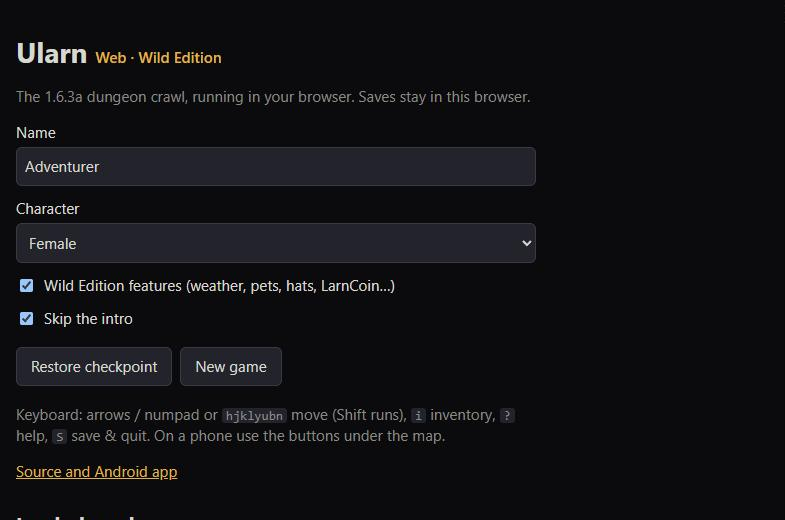
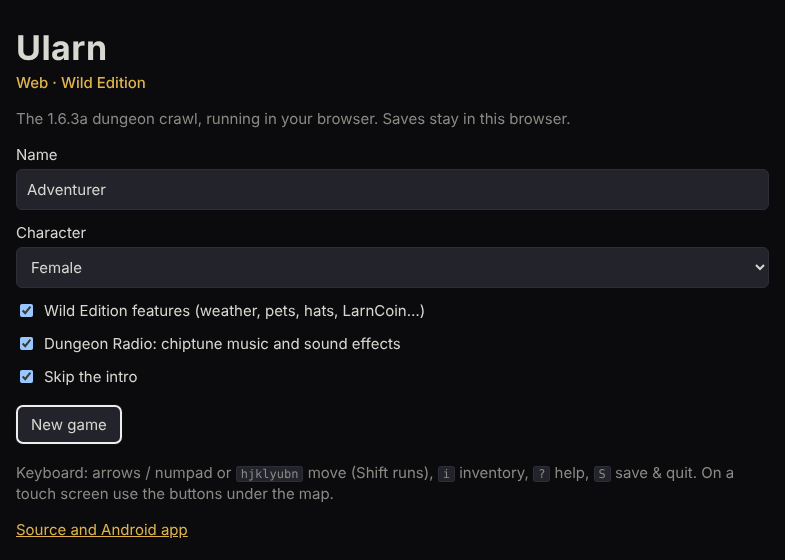
Update projects: refresh Ularn start screenshot, py-ularn tools, card links
- Ularn: recapture the web start screen (new Dungeon Radio option)
- py-ularn: MCP tool count 16 -> 30, add pick_up and rest to the tool list
- GasLog, WhistleIdentify: add APK download links
- ularn-wild: drop the Play in browser link (Pages URL returns 404)

Claude-Session: https://claude.ai/code/session_01TLxKETjgbHjrrgCrp59ati

Changed region(s): [[0.0, 0.2462, 0.9783, 0.9846], [0.0, 0.0615, 0.7338, 0.2462]]

diff --git a/index.html b/index.html
@@ -166,7 +166,7 @@ h2 { font-family: var(--display); font-weight: 600; font-size: clamp(28px, 3.6vw
   <!-- featured:start: highlighted projects, ranked by recent activity and how impressive they are -->
   <section class="feature" id="ularn">
     <div class="shots">
-      <div class="shot"><img src="img/ularn-start.png" width="785" height="520" alt="Ularn Web start screen with name, character, and Wild Edition options"></div>
+      <div class="shot"><img src="img/ularn-start.png" width="785" height="560" alt="Ularn Web start screen with name, character, Wild Edition and Dungeon Radio options"></div>
       <div class="shot-pair">
         <div class="shot"><img src="img/ularn-class.jpg" width="800" height="600" alt="Ularn character class selection screen"></div>
         <div class="shot"><img src="img/ularn-map.png" width="800" height="600" alt="Ularn home level with the original tile graphics"></div>
@@ -195,8 +195,8 @@ h2 { font-family: var(--display); font-weight: 600; font-size: clamp(28px, 3.6vw
       <div class="shot"><img src="img/py-ularn-watch.png" width="932" height="536" alt="py-ularn spectator page: an agent on dungeon level 1 next to a hobgoblin and a throne, with the Agent thoughts log below"></div>
       <div class="term">
         <div class="term-line"><span class="prompt">$</span> claude mcp add pyularn -- python -m pyularn.mcp_server --watch 8765</div>
-        <div class="term-note">MCP tools an agent can call</div>
-        <div class="tool-grid"><span>new_game</span><span>send_keys</span><span>move</span><span>get_screen</span><span>get_state</span><span>key_reference</span><span>end_game</span><span>explore</span><span>travel_to</span><span>take_stairs</span><span>fight</span><span>flee</span><span>buy</span><span>summarize_run</span><span>list_runs</span><span>get_run</span></div>
+        <div class="term-note">Game and skill tools an agent can call</div>
+        <div class="tool-grid"><span>new_game</span><span>send_keys</span><span>move</span><span>get_screen</span><span>get_state</span><span>key_reference</span><span>end_game</span><span>explore</span><span>travel_to</span><span>pick_up</span><span>take_stairs</span><span>fight</span><span>flee</span><span>rest</span><span>buy</span><span>summarize_run</span><span>list_runs</span><span>get_run</span></div>
       </div>
       <div class="cap">The MCP server's live spectator page while a client drives the <code>explore</code> tool on level 1. Same sprite tiles as <code>pyularn --web</code>.</div>
     </div>
@@ -207,7 +207,7 @@ h2 { font-family: var(--display); font-weight: 600; font-size: clamp(28px, 3.6vw
       <dl class="specs">
         <div><dt>Python</dt><dd>3.10+</dd></div>
         <div><dt>Dependencies</dt><dd>none</dd></div>
-        <div><dt>MCP tools</dt><dd>16</dd></div>
+        <div><dt>MCP tools</dt><dd>30</dd></div>
       </dl>
       <div class="tags"><span>Terminal + web</span><span>Sprite tiles</span><span>MCP over stdio</span><span>Seeded replays</span><span>Live spectator page</span></div>
       <div class="actions">
@@ -274,7 +274,7 @@ h2 { font-family: var(--display); font-weight: 600; font-size: clamp(28px, 3.6vw
           <div class="card-kicker">Android · Kotlin</div>
           <h4><a href="https://github.com/R0x7/GasLog">GasLog</a></h4>
           <p>Snap the pump, Trip A and the odometer; Gemini reads the numbers, you check them, and one tap adds a row to your Google Sheet. Includes a live scan mode that reads the numbers on the phone and works offline.</p>
-          <div class="card-foot"><span>Updated Nov 2026</span><a href="https://github.com/R0x7/GasLog">Code</a></div>
+          <div class="card-foot"><span>Updated Nov 2026</span><a href="https://github.com/R0x7/GasLog">Code</a><a href="https://github.com/R0x7/GasLog/releases/latest/download/GasLog.apk">APK</a></div>
         </article>
       </div>
     </div>
@@ -285,7 +285,7 @@ h2 { font-family: var(--display); font-weight: 600; font-size: clamp(28px, 3.6vw
           <div class="card-kicker">Web · JavaScript</div>
           <h4><a href="https://github.com/R0x7/WhistleIdentify">WhistleIdentify</a></h4>
           <p>Whistle a tune into the microphone and it tells you which song it is. Runs entirely in the browser with no server, and you can teach it new songs. Also wrapped as an Android app.</p>
-          <div class="card-foot"><span>Updated Nov 2026</span><a href="https://github.com/R0x7/WhistleIdentify">Code</a></div>
+          <div class="card-foot"><span>Updated Nov 2026</span><a href="https://github.com/R0x7/WhistleIdentify">Code</a><a href="https://github.com/R0x7/WhistleIdentify/releases/download/android-latest/whistle-identify.apk">APK</a></div>
         </article>
         <article class="card">
           <div class="card-kicker">Windows · TypeScript</div>
@@ -302,7 +302,7 @@ h2 { font-family: var(--display); font-weight: 600; font-size: clamp(28px, 3.6vw
           <div class="card-kicker">Android · Web · C</div>
           <h4><a href="https://github.com/R0x7/ularn-wild">ularn-wild</a></h4>
           <p>Experimental "Wild Edition" of the Android Ularn port with off-the-wall extras such as a chiptune radio, monster trading cards, pets, fishing and a Polaroid camera. Installs beside the normal app, and every feature can be switched off.</p>
-          <div class="card-foot"><span>Updated Nov 2026</span><a href="https://github.com/R0x7/ularn-wild">Code</a><a href="https://r0x7.github.io/ularn-wild/">Play in browser</a><a href="https://github.com/R0x7/ularn-wild/releases/download/wild-latest/ularn-wild.apk">APK</a></div>
+          <div class="card-foot"><span>Updated Nov 2026</span><a href="https://github.com/R0x7/ularn-wild">Code</a><a href="https://github.com/R0x7/ularn-wild/releases/download/wild-latest/ularn-wild.apk">APK</a></div>
         </article>
         <article class="card">
           <div class="card-kicker">C</div>
